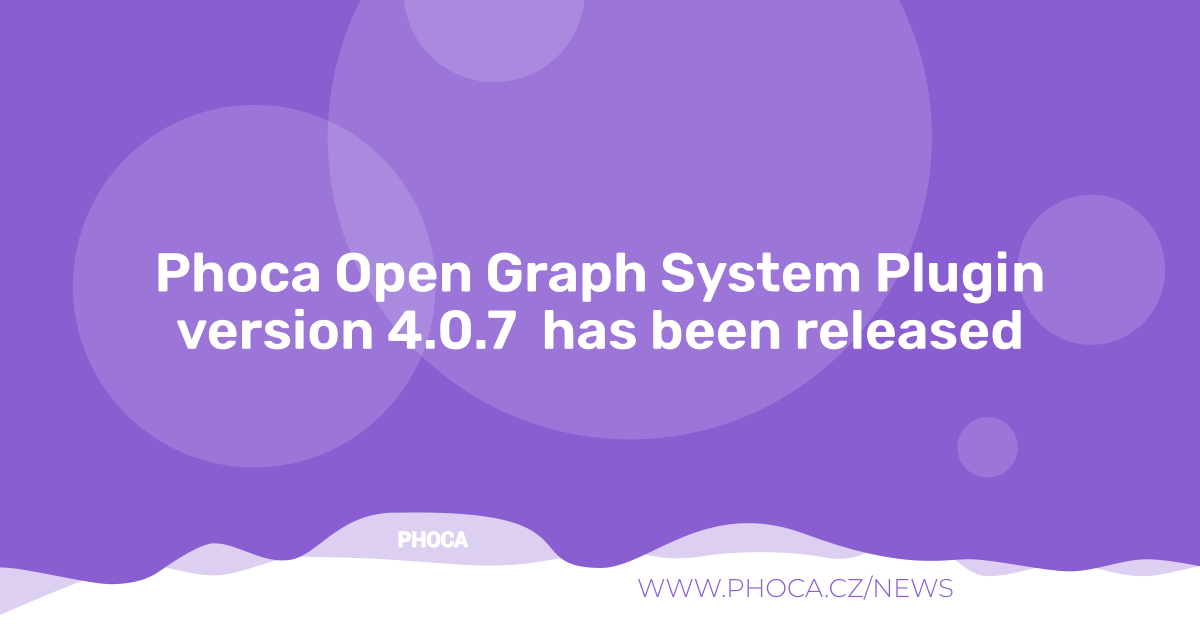
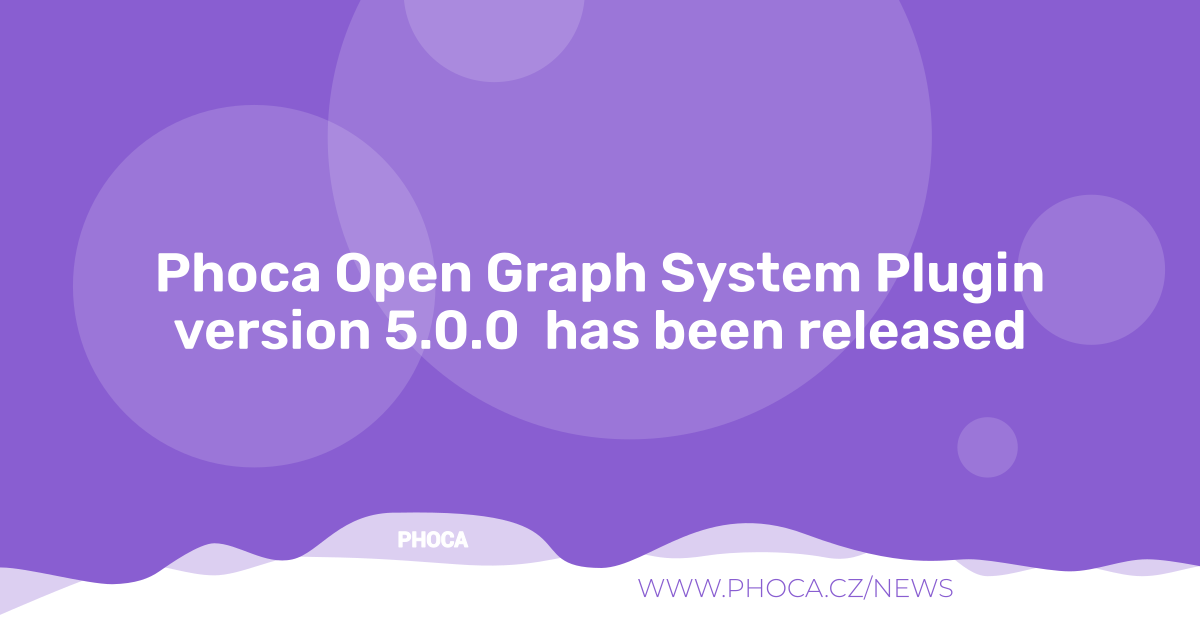
5.0.0

Changed region(s): [[0.1233, 0.4825, 0.8633, 0.573]]

diff --git a/phocaopengraph.php b/phocaopengraph.php
@@ -9,13 +9,14 @@
 
 use Joomla\CMS\Factory;
 use Joomla\CMS\HTML\HTMLHelper;
+use Joomla\CMS\Plugin\CMSPlugin;
 use Joomla\CMS\Uri\Uri;
 
 defined( '_JEXEC' ) or die( 'Restricted access' );
 jimport( 'joomla.plugin.plugin' );
 
 
-class plgSystemPhocaOpenGraph extends JPlugin
+class plgSystemPhocaOpenGraph extends CMSPlugin
 {
 
 	public $twitterEnable 	= 0;
@@ -85,6 +86,8 @@ class plgSystemPhocaOpenGraph extends JPlugin
 
 		$document 	= Factory::getDocument();
 
+		$display_itemprop_image 				= $this->params->get('display_itemprop_image', 1);
+
 		$docType	= $document->getType();
 		if ($docType == 'pdf' || $docType == 'raw' || $docType == 'json' || $docType == 'xml') {
 			return;
@@ -99,7 +102,7 @@ class plgSystemPhocaOpenGraph extends JPlugin
 			$document->setMetadata(htmlspecialchars($name, ENT_COMPAT, 'UTF-8'), htmlspecialchars($value, ENT_COMPAT, 'UTF-8'));
 		} else {
 			$attributes = '';
-			if ($name == 'og:image') {
+			if ($name == 'og:image' && $display_itemprop_image == 1) {
 				$attributes = ' itemprop="image"';
 			}
 			$document->addCustomTag('<meta property="'.htmlspecialchars($name, ENT_COMPAT, 'UTF-8').'"'.$attributes.' content="' . htmlspecialchars($value, ENT_COMPAT, 'UTF-8') . '" />');
@@ -222,7 +225,7 @@ class plgSystemPhocaOpenGraph extends JPlugin
 			$this->renderTag('og:title', $document->title, $type);
 			$this->renderTag('og:description', $document->description, $type);
 			//$this->renderTag('og:url', $document->base, $type);
-			$this->renderTag('og:url', JUri::current(), $type);
+			$this->renderTag('og:url', Uri::current(), $type);
 			$this->renderTag('og:type', 'website', $type);
 
 

diff --git a/models/fields/phocaoghead.php b/models/fields/phocaoghead.php
@@ -8,12 +8,14 @@
  */
 
 use Joomla\CMS\Factory;
+use Joomla\CMS\Form\FormField;
+use Joomla\CMS\Language\Text;
 
 defined('JPATH_BASE') or die;
 jimport('joomla.html.html');
 jimport('joomla.form.formfield');
 
-class JFormFieldPhocaOGHead extends JFormField
+class JFormFieldPhocaOGHead extends FormField
 {
 	protected $type = 'PhocaOGHead';
 
@@ -39,12 +41,12 @@ class JFormFieldPhocaOGHead extends JFormField
 				.'<table border="0"><tr>'
 				.'<td valign="middle" align="center">'. $image.'</td>'
 				.'<td valign="middle" align="center">'
-				.'<strong>'. JText::_($this->element['default']) . '</strong></td>'
+				.'<strong>'. Text::_($this->element['default']) . '</strong></td>'
 				.'</tr></table>'
 				.'</div>';
 			} else {
 				return '<div class="ph-options-head">'
-				.'<strong>'. JText::_($this->element['default']) . '</strong>'
+				.'<strong>'. Text::_($this->element['default']) . '</strong>'
 				.'</div>';
 			}
 		} else {

diff --git a/README.MD b/README.MD
@@ -58,6 +58,10 @@ Phoca Open Graph System Plugin is a Joomla! CMS Plugin. It allows adding of open
 
 4.0.7
 
+## Version (Joomla! 5.x)
+
+5.0.0
+
 
 
 ## License
